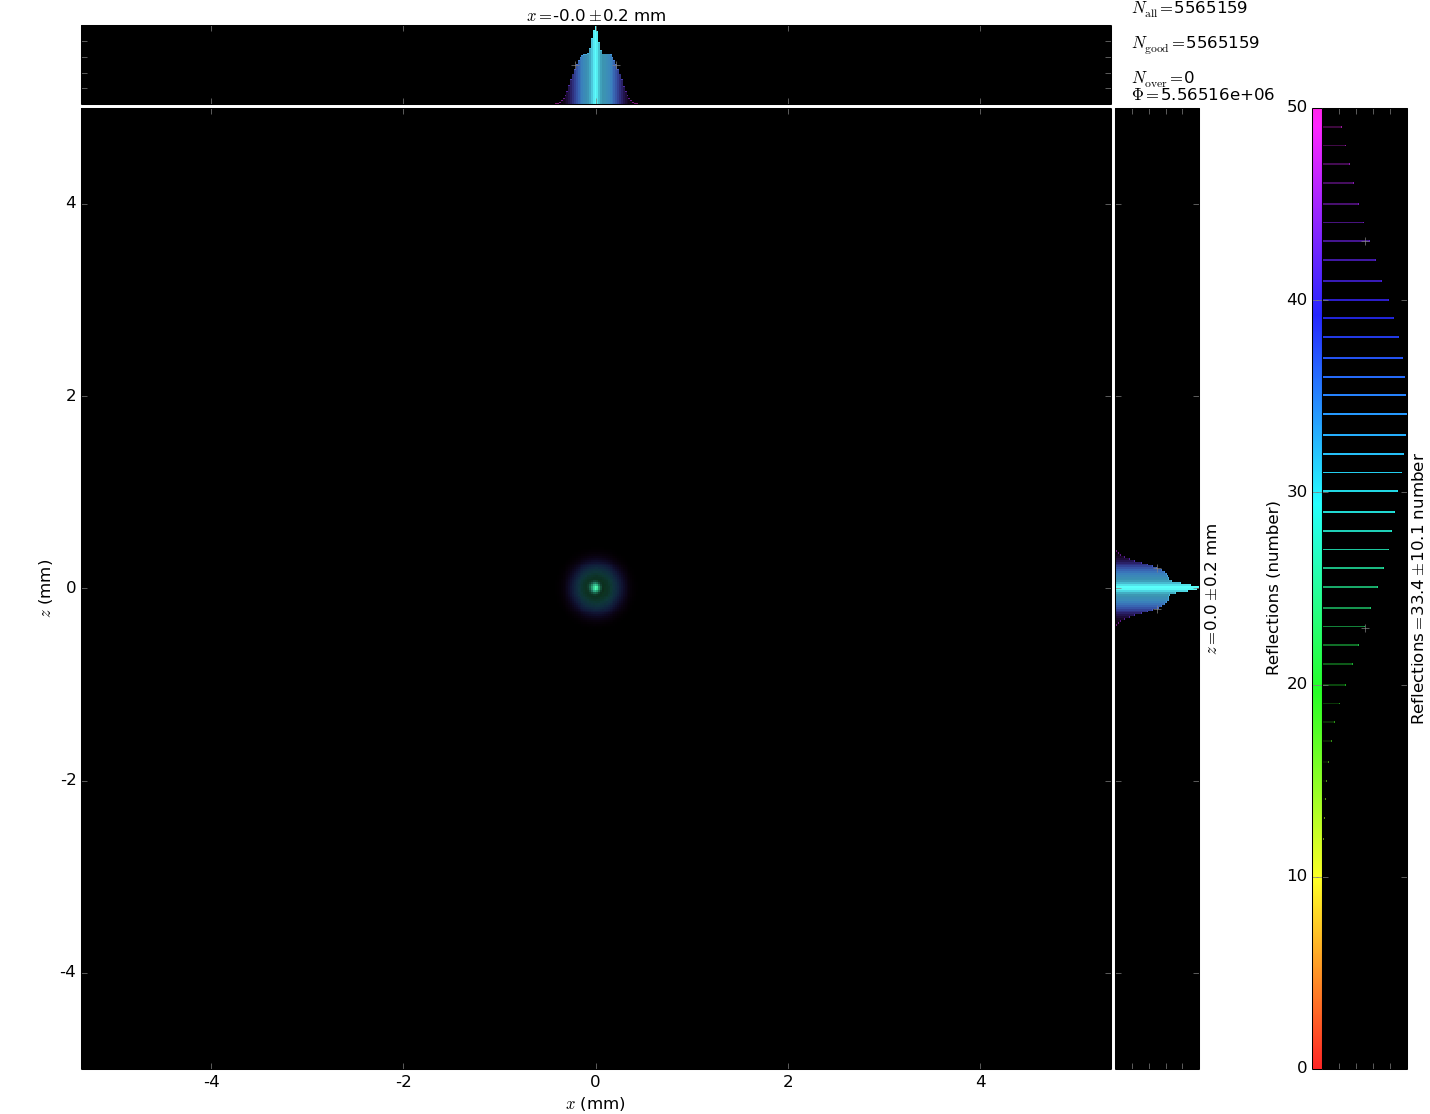
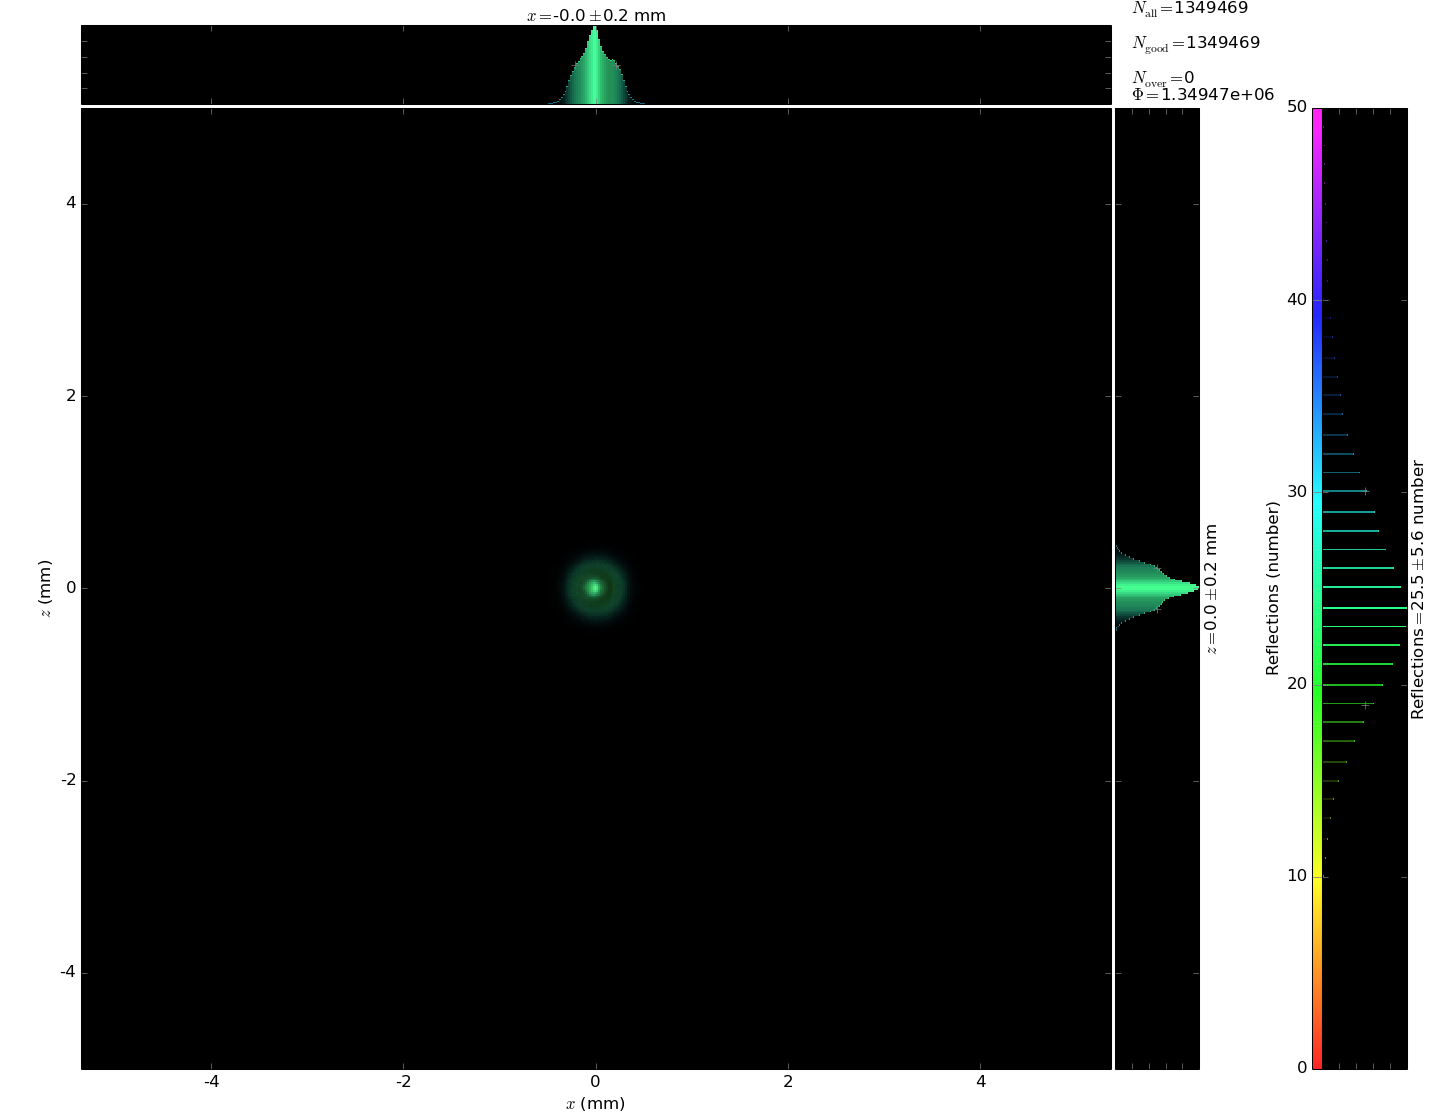
Another slice, increased bend

diff --git a/main.py b/main.py
@@ -1,4 +1,5 @@
 import os
+import numpy as np
 import matplotlib.pyplot as plt
 from elements import capillary as ec
 from elements import structures as st
@@ -28,9 +29,10 @@ def create_lens():
     # This is used to control capillaries' curvature
     lens = lp.PolyCapillaryLens(y_settings=y_settings,\
                                 D_settings=D_settings)
-    structure = st.CakePiece(rIn = 0.01,\
+    structure = st.CakePiece(rIn = 0.02,\
                                 nx_capillary = 27,\
-                                ny_bundle = 15)
+                                ny_bundle = 15,\
+                                angle = np.pi/24.0)
     lens.set_structure(structure)
 
     return lens
@@ -66,7 +68,7 @@ if __name__ == '__main__':
     # ceam = setup.get_beam()
 
     # Choose path for storage
-    directory = 'my_new_lens'
+    directory = 'huge_bend'
 
     # Create if necessary
     if not os.path.exists(directory):
